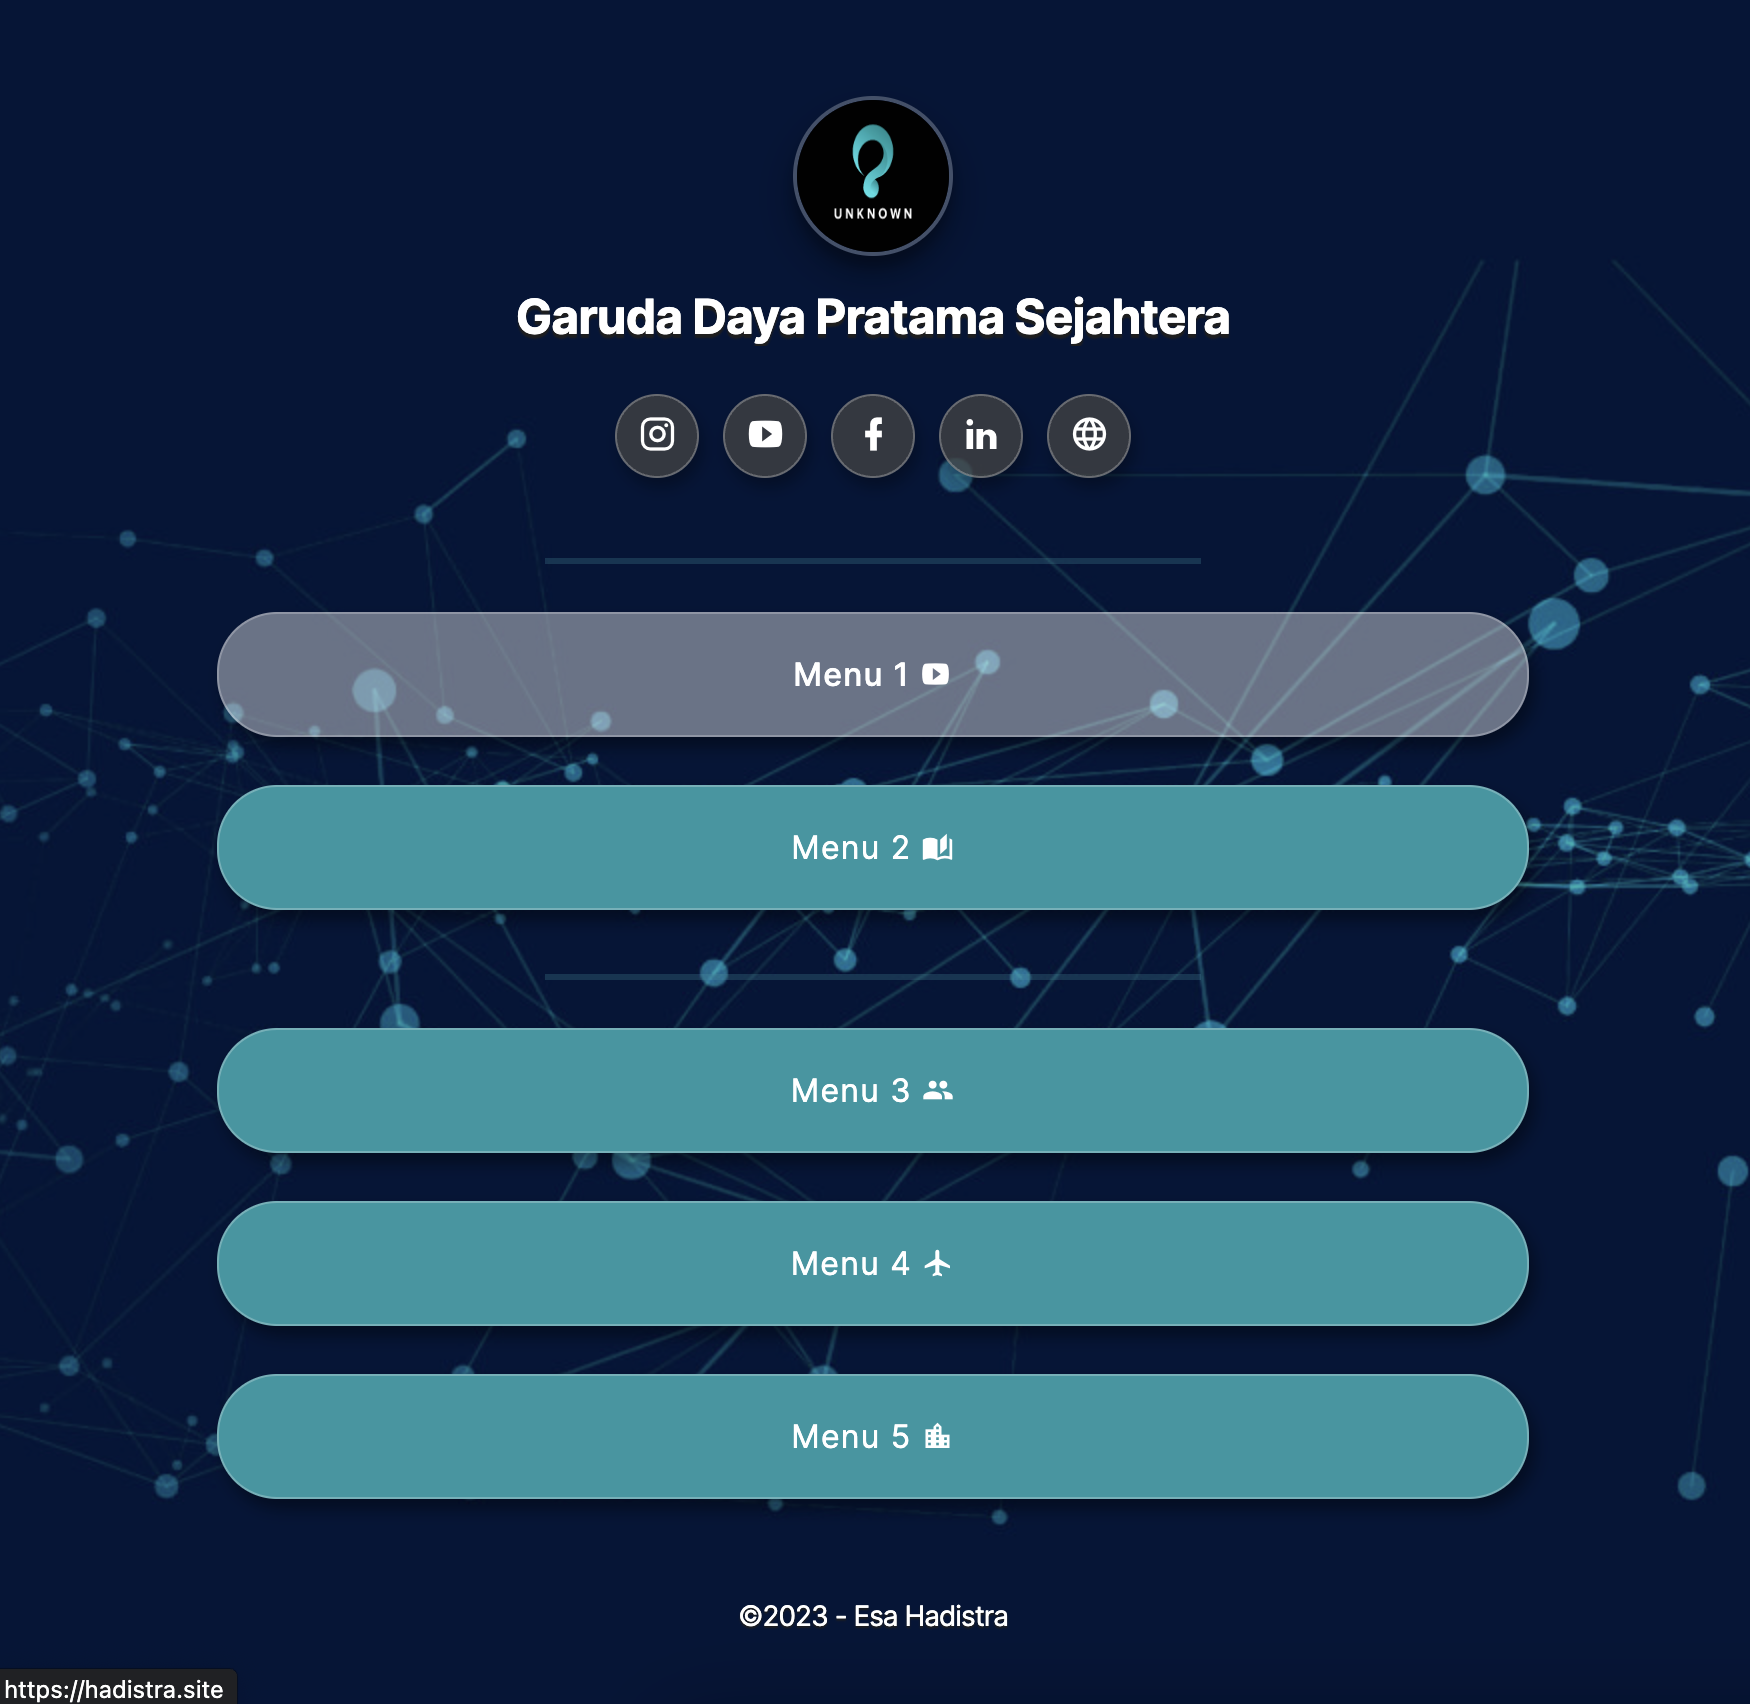
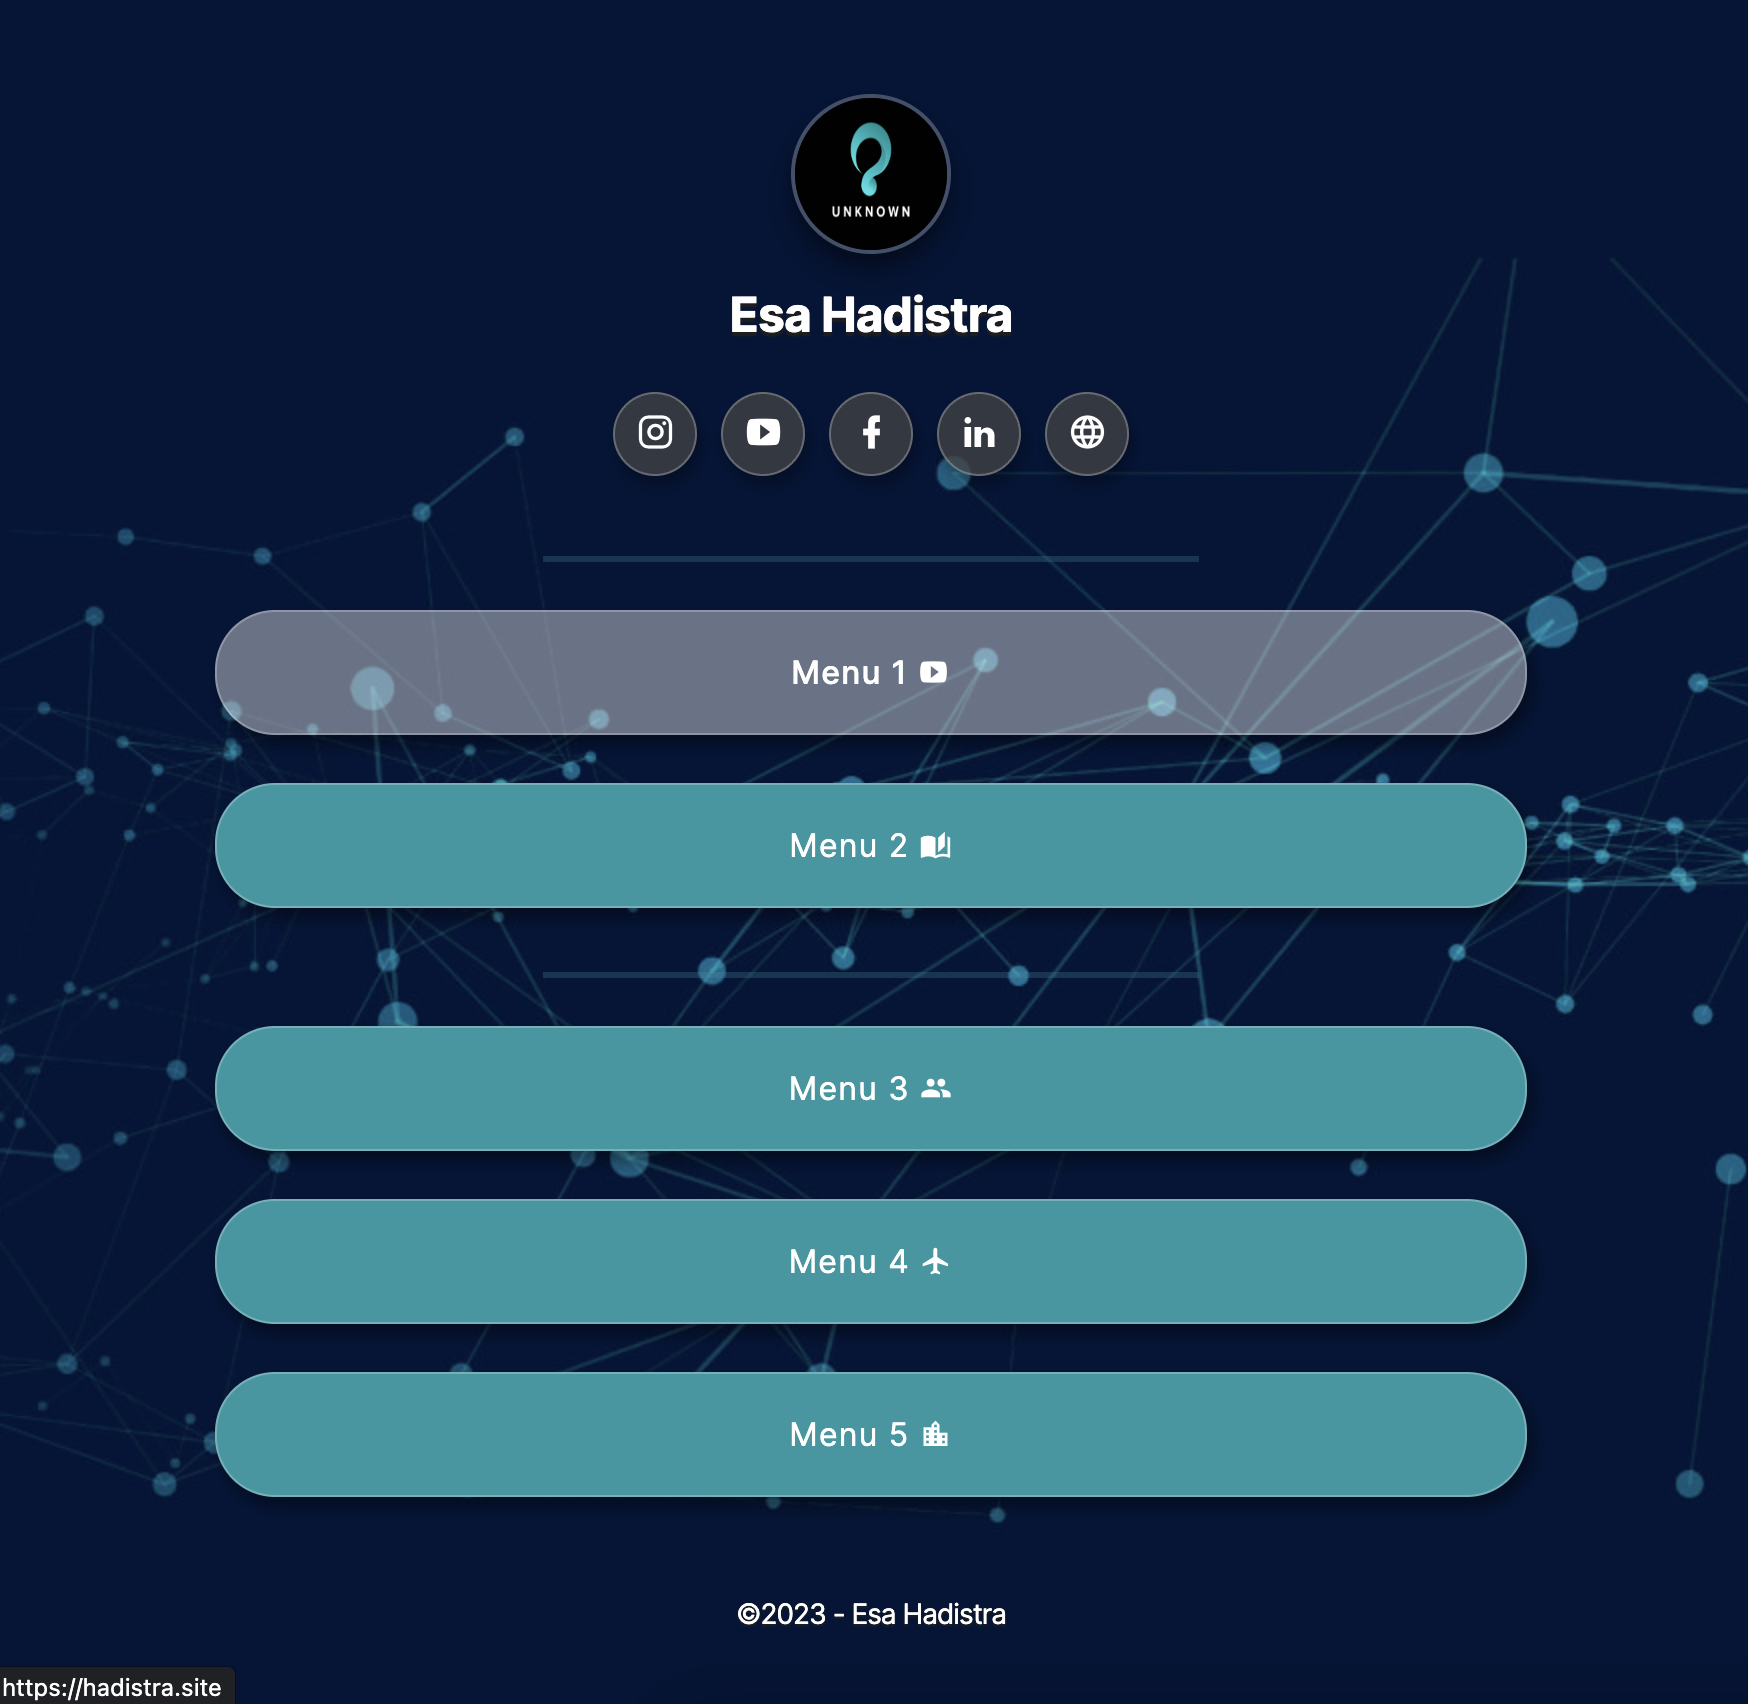
Fixing mistyping

diff --git a/menu-3/index.html b/menu-3/index.html
@@ -36,7 +36,7 @@
             </div>
 
             <div class="header-content text-center mx-auto">
-                <h4 class="custom-text-color-primary header-text mb-2 mt-3">Garuda Daya Pratama Sejahtera</h4>
+                <h4 class="custom-text-color-primary header-text mb-2 mt-3">Esa Hadistra</h4>
             </div>
         </div>
         <div class="col-md-12">
@@ -76,7 +76,7 @@
     <div class="container" id="footer">
         <div class="col-md-12 mt-5">
             <div class="mb-4 text-center">
-                <p class="custom-text-color-primary footer-text mb-5 mt-3">©2023 - PT Garuda Daya Pratama Sejahtera
+                <p class="custom-text-color-primary footer-text mb-5 mt-3">©2023 - PT Esa Hadistra
                 </p>
             </div>
         </div>

diff --git a/menu-4/index.html b/menu-4/index.html
@@ -36,7 +36,7 @@
             </div>
 
             <div class="header-content text-center mx-auto">
-                <h4 class="custom-text-color-primary header-text mb-2 mt-3">Garuda Daya Pratama Sejahtera</h4>
+                <h4 class="custom-text-color-primary header-text mb-2 mt-3">Esa Hadistra</h4>
             </div>
         </div>
         <div class="col-md-12">
@@ -84,7 +84,7 @@
     <div class="container" id="footer">
         <div class="col-md-12 mt-5">
             <div class="mb-4 text-center">
-                <p class="custom-text-color-primary footer-text mb-5 mt-3">©2023 - PT Garuda Daya Pratama Sejahtera
+                <p class="custom-text-color-primary footer-text mb-5 mt-3">©2023 - PT Esa Hadistra
                 </p>
             </div>
         </div>

diff --git a/menu-4/menu-4-1/index.html b/menu-4/menu-4-1/index.html
@@ -36,7 +36,7 @@
             </div>
 
             <div class="header-content text-center mx-auto">
-                <h4 class="custom-text-color-primary header-text mb-2 mt-3">Garuda Daya Pratama Sejahtera</h4>
+                <h4 class="custom-text-color-primary header-text mb-2 mt-3">Esa Hadistra</h4>
             </div>
         </div>
         <div class="col-md-12">
@@ -81,7 +81,7 @@
     <div class="container" id="footer">
         <div class="col-md-12 mt-5">
             <div class="mb-4 text-center">
-                <p class="custom-text-color-primary footer-text mb-5 mt-3">©2023 - PT Garuda Daya Pratama Sejahtera
+                <p class="custom-text-color-primary footer-text mb-5 mt-3">©2023 - PT Esa Hadistra
                 </p>
             </div>
         </div>

diff --git a/menu-4/menu-4-2/index.html b/menu-4/menu-4-2/index.html
@@ -36,7 +36,7 @@
             </div>
 
             <div class="header-content text-center mx-auto">
-                <h4 class="custom-text-color-primary header-text mb-2 mt-3">Garuda Daya Pratama Sejahtera</h4>
+                <h4 class="custom-text-color-primary header-text mb-2 mt-3">Esa Hadistra</h4>
             </div>
         </div>
         <div class="col-md-12">
@@ -81,7 +81,7 @@
     <div class="container" id="footer">
         <div class="col-md-12 mt-5">
             <div class="mb-4 text-center">
-                <p class="custom-text-color-primary footer-text mb-5 mt-3">©2023 - PT Garuda Daya Pratama Sejahtera
+                <p class="custom-text-color-primary footer-text mb-5 mt-3">©2023 - PT Esa Hadistra
                 </p>
             </div>
         </div>

diff --git a/menu-4/menu-4-3/index.html b/menu-4/menu-4-3/index.html
@@ -36,7 +36,7 @@
             </div>
 
             <div class="header-content text-center mx-auto">
-                <h4 class="custom-text-color-primary header-text mb-2 mt-3">Garuda Daya Pratama Sejahtera</h4>
+                <h4 class="custom-text-color-primary header-text mb-2 mt-3">Esa Hadistra</h4>
             </div>
         </div>
         <div class="col-md-12">
@@ -76,7 +76,7 @@
     <div class="container" id="footer">
         <div class="col-md-12 mt-5">
             <div class="mb-4 text-center">
-                <p class="custom-text-color-primary footer-text mb-5 mt-3">©2023 - PT Garuda Daya Pratama Sejahtera
+                <p class="custom-text-color-primary footer-text mb-5 mt-3">©2023 - PT Esa Hadistra
                 </p>
             </div>
         </div>

diff --git a/menu-5/index.html b/menu-5/index.html
@@ -36,7 +36,7 @@
             </div>
 
             <div class="header-content text-center mx-auto">
-                <h4 class="custom-text-color-primary header-text mb-2 mt-3">Garuda Daya Pratama Sejahtera</h4>
+                <h4 class="custom-text-color-primary header-text mb-2 mt-3">Esa Hadistra</h4>
             </div>
         </div>
         <div class="col-md-12">
@@ -76,7 +76,7 @@
     <div class="container" id="footer">
         <div class="col-md-12 mt-5">
             <div class="mb-4 text-center">
-                <p class="custom-text-color-primary footer-text mb-5 mt-3">©2023 - PT Garuda Daya Pratama Sejahtera
+                <p class="custom-text-color-primary footer-text mb-5 mt-3">©2023 - PT Esa Hadistra
                 </p>
             </div>
         </div>

diff --git a/index.html b/index.html
@@ -36,7 +36,7 @@
             </div>
 
             <div class="header-content text-center mx-auto">
-                <h4 class="custom-text-color-primary header-text mb-2 mt-3">Garuda Daya Pratama Sejahtera</h4>
+                <h4 class="custom-text-color-primary header-text mb-2 mt-3">Esa Hadistra</h4>
             </div>
         </div>
         <div class="col-md-12">
